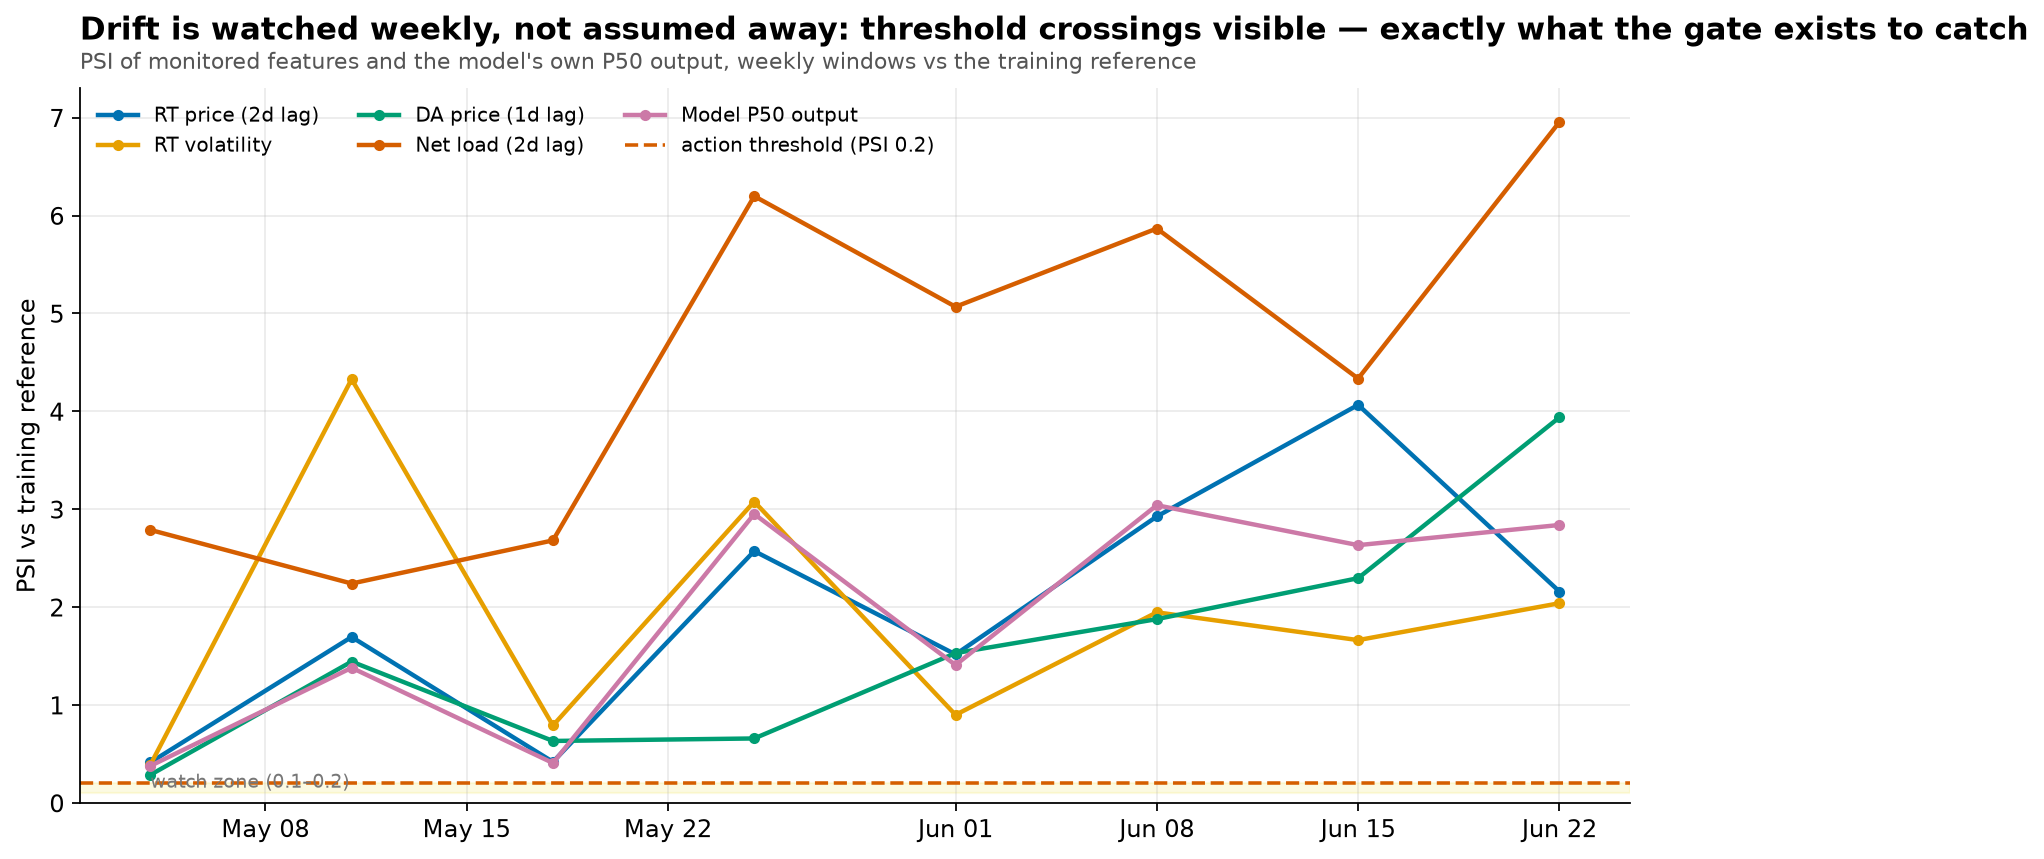
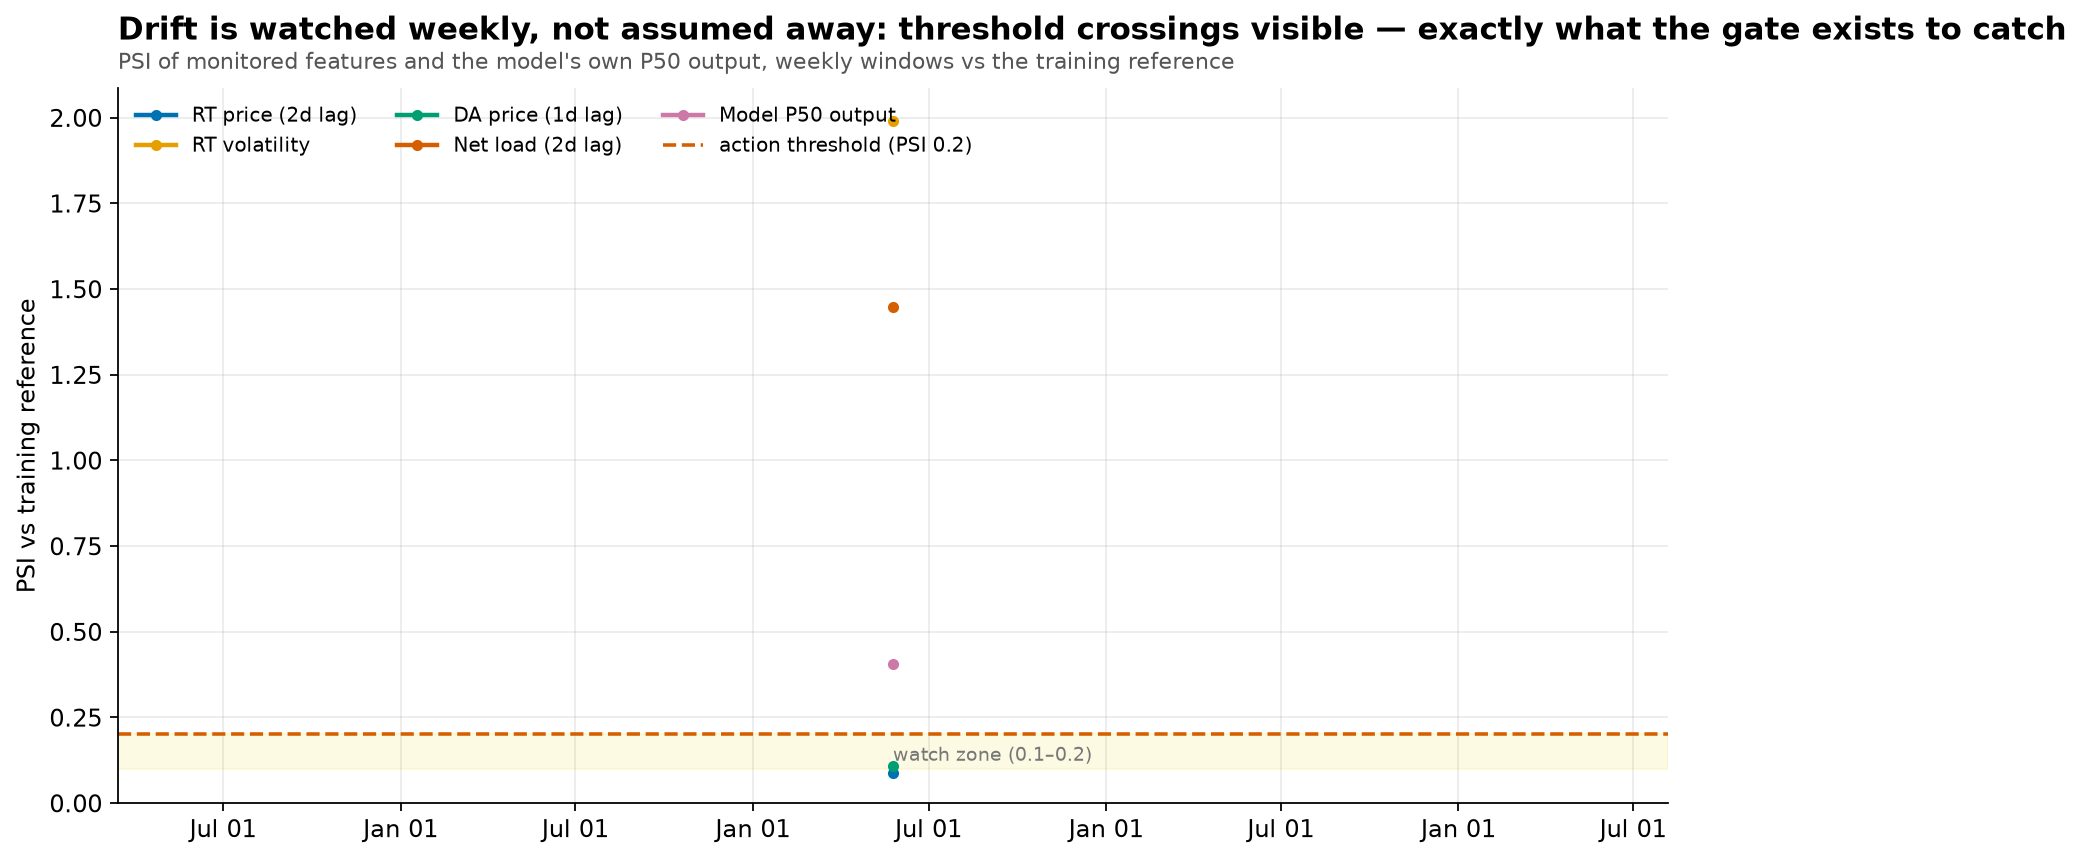
feat(phase-8): CI workflow - governance gates as required checks, validated locally
- .github/workflows/ci.yml: ruff + black + full offline sample pipeline
  (zero network) + pytest + governance.check --sample; figure artifacts
- sample mode generates model_card_sample.md (gitignored) so CI can never
  overwrite the committed real-run card
- validated by running the identical steps locally: all green; negative
  case proven (removing the model card -> exit 1, restored -> exit 0)

diff --git a/src/forecast_to_dispatch/governance/check.py b/src/forecast_to_dispatch/governance/check.py
@@ -39,12 +39,15 @@ def _paths(config: dict[str, Any], sample: bool) -> dict[str, Path]:
     models_root = resolve_path(config, "models")
     if sample:
         models_root = models_root / "sample"
+    governance_dir = resolve_path(config, "models").parent / "governance"
     return {
         "models_root": models_root,
         "registry": registry_file(models_root, sample),
         "processed": resolve_path(config, "processed"),
-        "card": resolve_path(config, "models").parent / "governance" / "model_card.md",
-        "register": resolve_path(config, "models").parent / "governance" / "risk_register.yaml",
+        # Sample/CI runs generate their own card so the committed real-run
+        # card can never be overwritten by a smoke test.
+        "card": governance_dir / ("model_card_sample.md" if sample else "model_card.md"),
+        "register": governance_dir / "risk_register.yaml",
         "audit_log": resolve_path(config, "audit_log"),
     }
 
